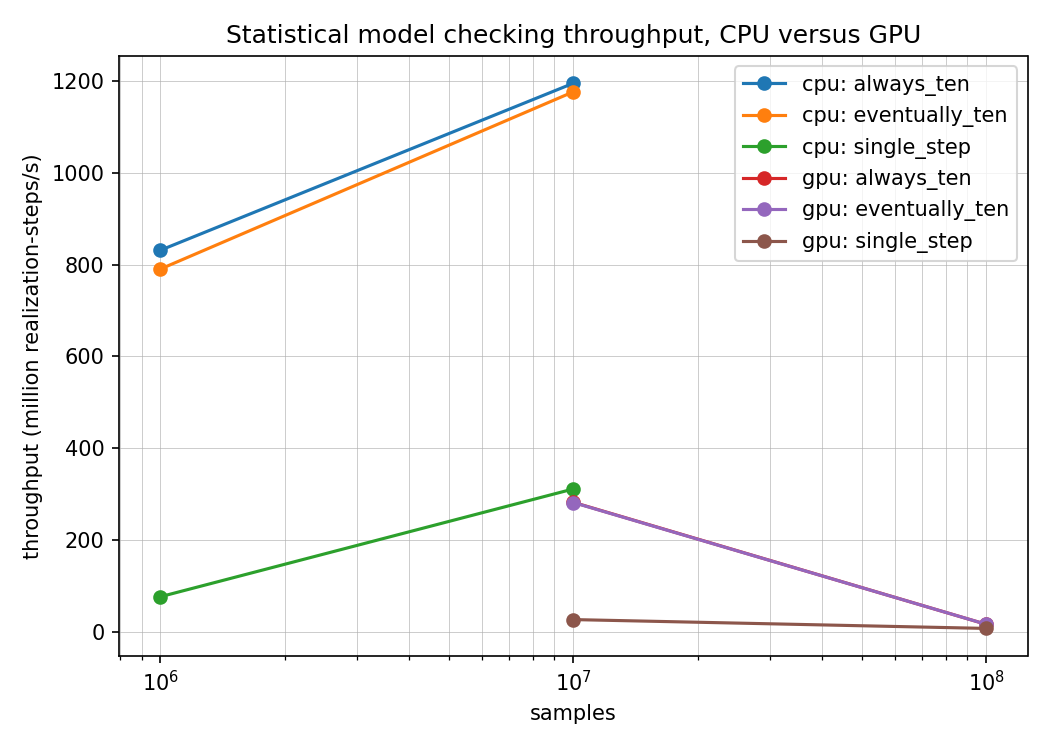
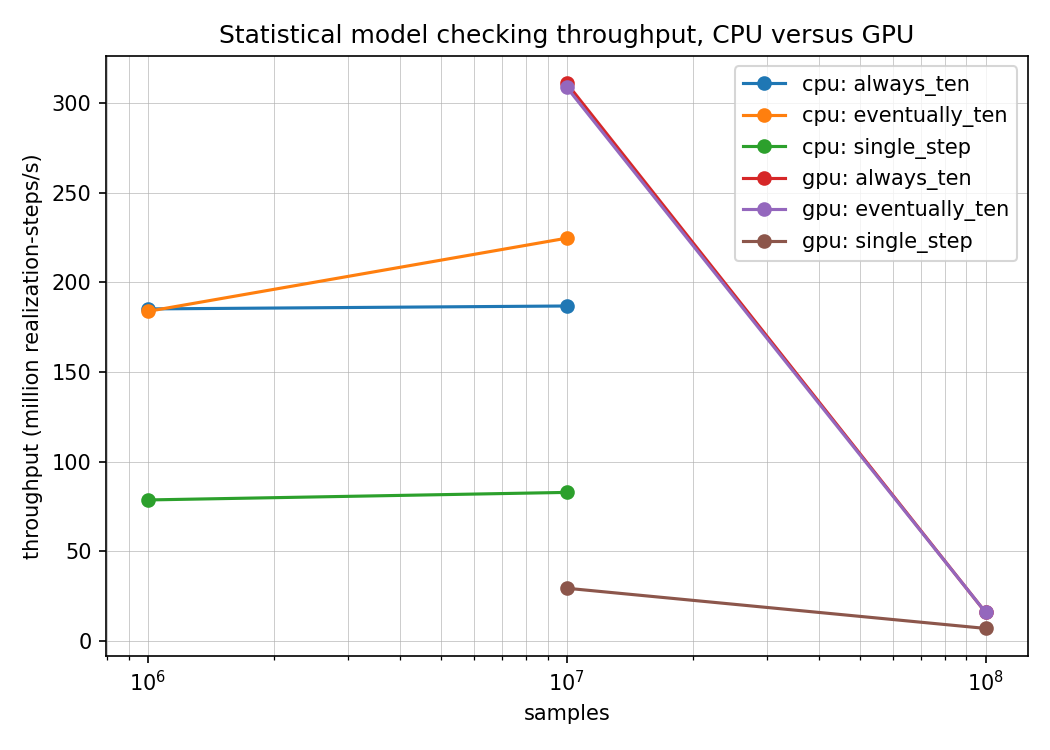
add streaming, dense, and synthesis figures to the plotter

diff --git a/benchmarks/runners/plot.py b/benchmarks/runners/plot.py
@@ -137,6 +137,73 @@ def smc_accuracy(records):
     plt.close(fig)
     print("wrote", out)
 
+def cross_language(records):
+    rows = [r for r in records if r.get("benchmark") == "streaming"]
+    if not rows:
+        return
+    by_lang = {}
+    for r in rows:
+        by_lang[r["language"]] = r["timing"]["mean_ms"] * 1000.0
+    order = sorted(by_lang, key=by_lang.get)
+    fig, ax = plt.subplots(figsize=(7, 5))
+    ax.bar(order, [by_lang[l] for l in order])
+    ax.set_yscale("log")
+    ax.set_ylabel("per-sample update (us)")
+    ax.set_title("Streaming cost per sample, across bindings")
+    ax.grid(True, axis="y", which="both", linewidth=0.3)
+    fig.tight_layout()
+    out = os.path.join(RESULTS, "streaming.png")
+    fig.savefig(out, dpi=150)
+    plt.close(fig)
+    print("wrote", out)
+
+def dense(records):
+    d = [(r["size"], r["timing"]["mean_ms"]) for r in records if r.get("benchmark") == "dense/length"]
+    disc = [
+        (r["size"], r["timing"]["mean_ms"])
+        for r in records
+        if r.get("benchmark") == "scalability/length"
+        and r.get("tool") == "sentil"
+        and r.get("question") == "full_signal"
+    ]
+    if not d or not disc:
+        return
+    fig, ax = plt.subplots(figsize=(7, 5))
+    for points, label in ((sorted(d), "dense"), (sorted(disc), "discrete")):
+        ax.plot([p[0] for p in points], [p[1] for p in points], marker="o", label=label)
+    ax.set_xscale("log")
+    ax.set_yscale("log")
+    ax.set_xlabel("trace length (samples)")
+    ax.set_ylabel("full-signal time (ms)")
+    ax.set_title("Dense versus discrete robustness cost")
+    ax.grid(True, which="both", linewidth=0.3)
+    ax.legend()
+    fig.tight_layout()
+    out = os.path.join(RESULTS, "dense.png")
+    fig.savefig(out, dpi=150)
+    plt.close(fig)
+    print("wrote", out)
+
+def synthesis(records):
+    rows = [r for r in records if "mode" in r]
+    if not rows:
+        return
+    rows.sort(key=lambda r: (r["mode"], r["case"]))
+    labels = [r["case"] for r in rows]
+    fig, ax = plt.subplots(figsize=(8, 5))
+    colors = ["C0" if r["mode"] == "open_loop" else "C1" for r in rows]
+    ax.bar(range(len(rows)), [r["timing"]["mean_ms"] for r in rows], color=colors)
+    ax.set_xticks(range(len(rows)))
+    ax.set_xticklabels(labels, rotation=30, ha="right")
+    ax.set_ylabel("synthesis time (ms)")
+    ax.set_title("Open-loop synthesis and one online planning step")
+    ax.grid(True, axis="y", linewidth=0.3)
+    fig.tight_layout()
+    out = os.path.join(RESULTS, "synthesis.png")
+    fig.savefig(out, dpi=150)
+    plt.close(fig)
+    print("wrote", out)
+
 def main():
     records = load()
     if not records:
@@ -144,6 +211,9 @@ def main():
         return
     scalability(records)
     deterministic(records)
+    cross_language(records)
+    dense(records)
+    synthesis(records)
     smc_throughput(records)
     smc_accuracy(records)
 
